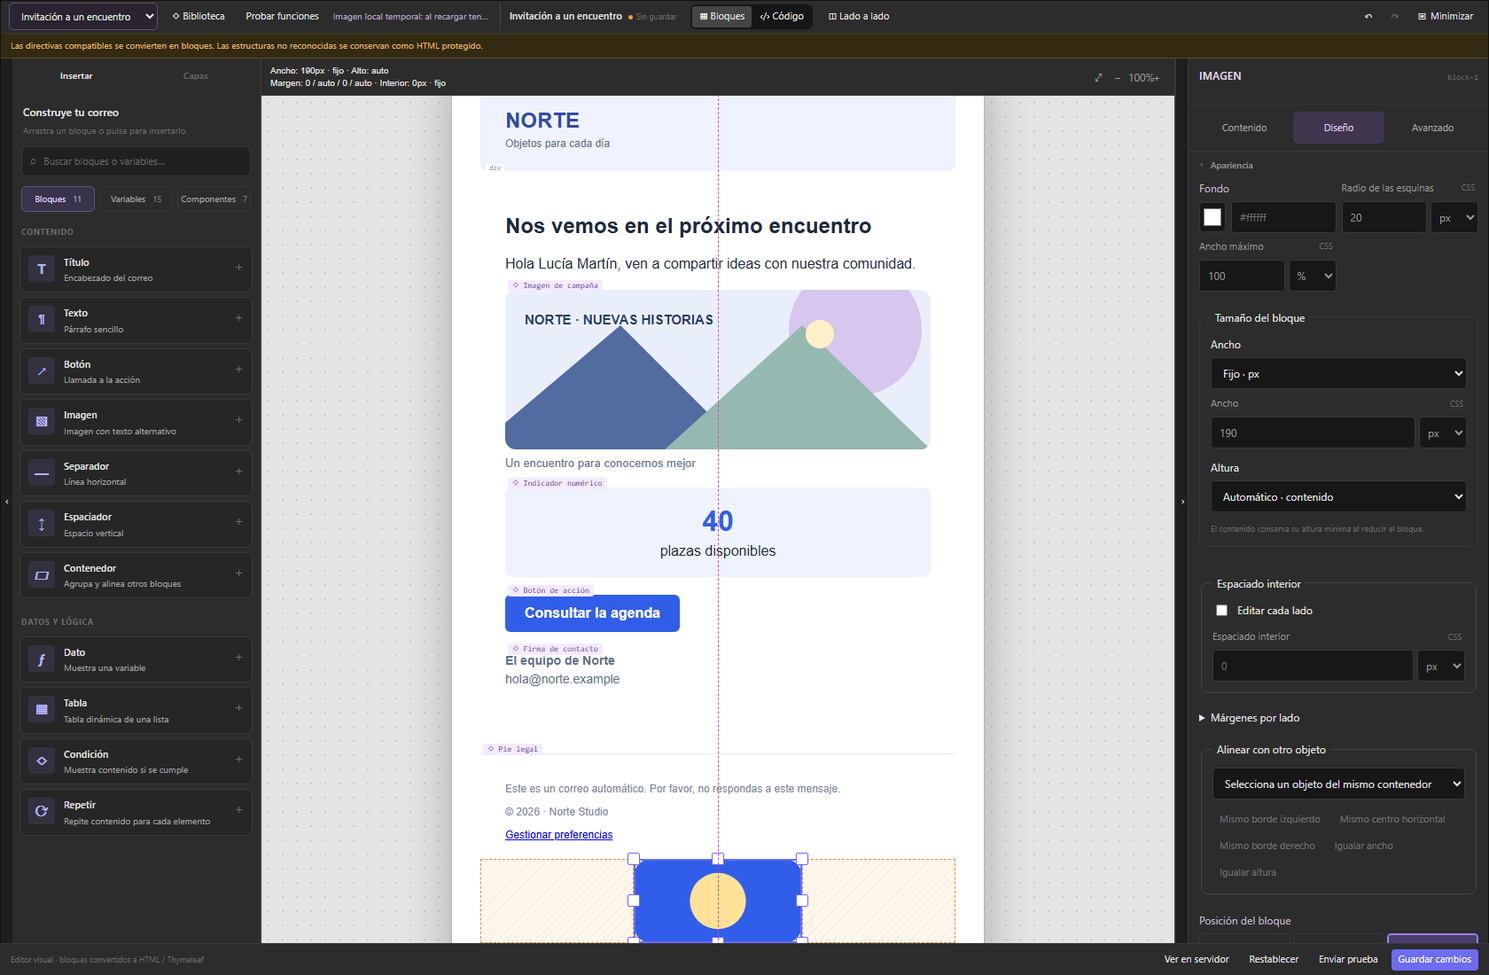
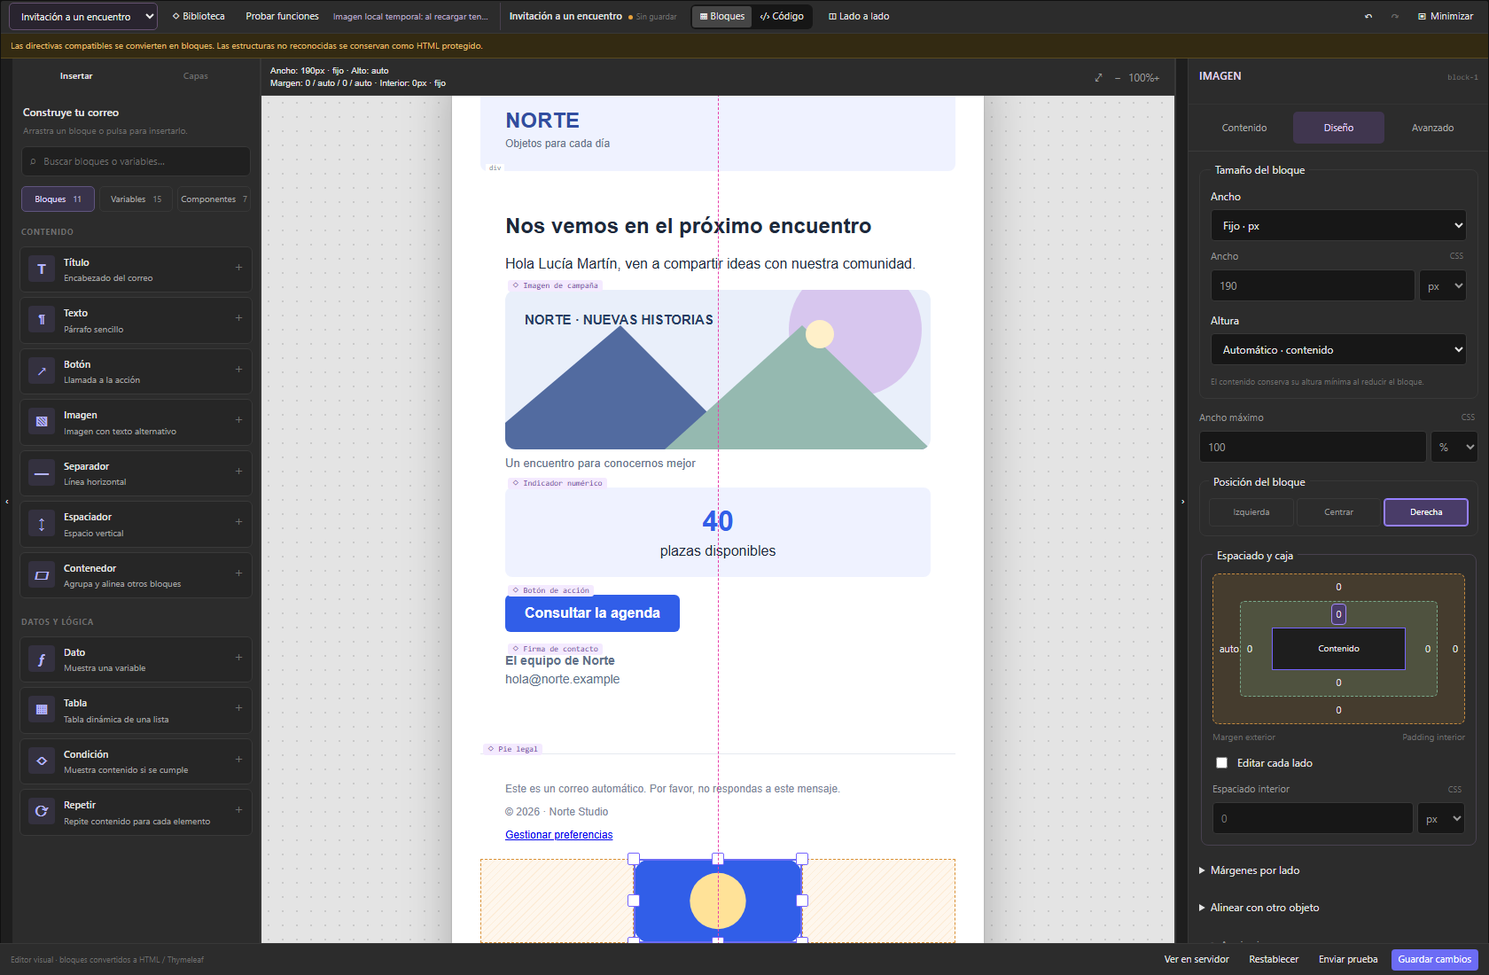
refactor(inspector): organize design around an editable box model

diff --git a/src/components/editor/SpacingInspector.tsx b/src/components/editor/SpacingInspector.tsx
@@ -1,67 +1,62 @@
-import { useEffect, useRef, useState } from "react";
+import { useEffect, useLayoutEffect, useRef, useState } from "react";
 import type { EmailBlock } from "../../services/emailBlocks";
+import { edges, readEdge, setSpacing, type Edge, type Spacing } from "../../editor/boxModel";
 import { LengthInput } from "./StyleInputs";
 
-export default function SpacingInspector({ block, onChange }: {
-  block: EmailBlock;
-  onChange: (styles: Record<string, string>) => void;
-}) {
-  const [separate, setSeparate] = useState(false);
-  const [reference, setReference] = useState("");
-  const [objects, setObjects] = useState<{id:string;label:string}[]>([]);
-  const [message, setMessage] = useState("");
-  const root = useRef<HTMLDivElement>(null);
-  const styles = block.styles || {};
-  const canvasNode = () => root.current?.closest('[role="region"]')?.querySelector<HTMLElement>(`[data-ee-block-id="${CSS.escape(block.id)}"]`);
-  useEffect(() => {
-    const selected = canvasNode();
-    setReference("");
-    setMessage("");
-    setObjects(Array.from(selected?.parentElement?.children || [])
-      .filter(element => element !== selected && element.hasAttribute("data-ee-block-id"))
-      .map(element => ({id:element.getAttribute("data-ee-block-id")!,label:element.textContent?.trim().slice(0,55) || element.getAttribute("data-ee-block-kind") || "Objeto"})));
-  }, [block.id]);
-  const applyReference = (action: "left"|"center"|"right"|"width"|"height") => {
-    const selected = canvasNode();
-    const parent = selected?.parentElement;
-    const target = Array.from(parent?.children || []).find(element=>element.getAttribute("data-ee-block-id")===reference) as HTMLElement | undefined;
-    if (!selected || !parent || !target) return;
-    const scale = selected.getBoundingClientRect().width / selected.offsetWidth || 1;
-    const box = selected.getBoundingClientRect();
-    const other = target.getBoundingClientRect();
-    if (action === "width" || action === "height") {
-      onChange({...styles,[action]:`${Math.round(other[action]/scale)}px`,boxSizing:"border-box"});
-    } else {
-      const parentBox = parent.getBoundingClientRect();
-      const padding = parseFloat(getComputedStyle(parent).paddingLeft) || 0;
-      const edge = action === "left" ? other.left : action === "right" ? other.right-box.width : (other.left+other.right-box.width)/2;
-      const left = Math.max(0,(edge-parentBox.left)/scale-parent.clientLeft-padding);
+type ReferenceAction = "left"|"center"|"right"|"width"|"height";
+export default function SpacingInspector({block,onChange}:{block:EmailBlock;onChange:(styles:Record<string,string>)=>void}) {
+  const root=useRef<HTMLDivElement>(null);
+  const [separate,setSeparate]=useState(false);
+  const [active,setActive]=useState<{kind:Spacing;side:Edge}>({kind:"padding",side:"Top"});
+  const [reference,setReference]=useState("");
+  const [objects,setObjects]=useState<{id:string;label:string}[]>([]);
+  const [message,setMessage]=useState("");
+  const styles=block.styles || {};
+  const node=()=>root.current?.closest('[role="region"]')?.querySelector<HTMLElement>(`[data-ee-block-id="${CSS.escape(block.id)}"]`);
+  useEffect(()=>{setReference("");setMessage("");},[block.id]);
+  useLayoutEffect(()=>{
+    const selected=node(),parent=selected?.parentElement;
+    const refresh=()=>setObjects(Array.from(parent?.children || []).filter(element=>element!==selected && element.hasAttribute("data-ee-block-id")).map(element=>({id:element.getAttribute("data-ee-block-id")!,label:element.textContent?.trim().slice(0,55)||element.getAttribute("data-ee-block-kind")||"Objeto"})));
+    refresh();
+    const observer=typeof MutationObserver === "undefined"?null:new MutationObserver(refresh);
+    if(parent)observer?.observe(parent,{childList:true});
+    return ()=>observer?.disconnect();
+  },[block.id]);
+  const applyReference=(action:ReferenceAction)=>{
+    const selected=node(),parent=selected?.parentElement;
+    const target=Array.from(parent?.children || []).find(element=>element.getAttribute("data-ee-block-id")===reference) as HTMLElement|undefined;
+    if(!selected || !parent || !target)return;
+    const box=selected.getBoundingClientRect(),other=target.getBoundingClientRect();
+    const scale=box.width/selected.offsetWidth || 1;
+    if(action === "width" || action === "height")onChange({...styles,[action]:`${Math.round(other[action]/scale)}px`,boxSizing:"border-box"});
+    else {
+      const padding=parseFloat(getComputedStyle(parent).paddingLeft)||0;
+      const edge=action === "left"?other.left:action === "right"?other.right-box.width:(other.left+other.right-box.width)/2;
+      const left=Math.max(0,(edge-parent.getBoundingClientRect().left)/scale-parent.clientLeft-padding);
       onChange({...styles,display:styles.display || "block",marginLeft:`${Math.round(left)}px`,marginRight:"0"});
     }
     setMessage("Medida aplicada en píxeles. Puedes deshacer el cambio.");
   };
-  const changePadding = (padding: string) => {
-    const next: Record<string,string> = {...styles,padding};
-    for (const side of ["Top","Right","Bottom","Left"]) delete next[`padding${side}`];
-    onChange(next);
-  };
-  const inheritedSide = (kind: "padding"|"margin", side: string) => {
-    if (styles[`${kind}${side}`]) return styles[`${kind}${side}`];
-    if (typeof document === "undefined") return "";
-    const declaration = document.createElement("div").style;
-    declaration.setProperty(kind, styles[kind] || "");
-    return declaration.getPropertyValue(`${kind}-${side.toLowerCase()}`);
-  };
+  const choose=(kind:Spacing,side:Edge)=>{setActive({kind,side});if(kind === "padding")setSeparate(true);};
   return <div ref={root} className="ee-spacing-inspector">
-    <fieldset><legend>Espaciado interior</legend>
-      <label className="ee-spacing-toggle"><input type="checkbox" checked={separate} onChange={event=>setSeparate(event.target.checked)} />Editar cada lado</label>
-      {separate ? <div className="ee-row2">{[["Top","Arriba"],["Right","Derecha"],["Bottom","Abajo"],["Left","Izquierda"]].map(([side,label])=><LengthInput key={side} label={`Padding ${label}`} value={inheritedSide("padding",side)} placeholder="0px" onChange={value=>onChange({...styles,[`padding${side}`]:value})} />)}</div> : <LengthInput label="Espaciado interior" value={styles.padding || ""} onChange={changePadding} placeholder="0px" />}
+    <fieldset><legend>Espaciado y caja</legend>
+      <div className="ee-box-map" aria-label="Diagrama de márgenes y padding">
+        {edges.map(([side,label])=><button key={`margin-${side}`} type="button" className={`ee-box-edge margin edge-${side.toLowerCase()}`} aria-label={`Editar margen ${label.toLowerCase()}`} aria-pressed={active.kind === "margin" && active.side === side} onClick={()=>choose("margin",side)}>{readEdge(styles,"margin",side)||"0"}</button>)}
+        <div className="ee-box-padding">
+          {edges.map(([side,label])=><button key={side} type="button" className={`ee-box-edge padding edge-${side.toLowerCase()}`} aria-label={`Editar padding ${label.toLowerCase()}`} aria-pressed={active.kind === "padding" && active.side === side} onClick={()=>choose("padding",side)}>{readEdge(styles,"padding",side)||"0"}</button>)}
+          <span className="ee-box-content">Contenido</span>
+        </div>
+      </div>
+      <div className="ee-box-legend"><span>Margen exterior</span><span>Padding interior</span></div>
+      <label className="ee-spacing-toggle"><input type="checkbox" checked={separate} onChange={event=>setSeparate(event.target.checked)}/>Editar cada lado</label>
+      {active.kind === "margin" && <LengthInput key={`margin-${active.side}`} label={`Margen ${edges.find(([side])=>side===active.side)![1]}`} value={readEdge(styles,"margin",active.side)} placeholder="0px" onChange={value=>onChange({...styles,[`margin${active.side}`]:value})}/>}
+      {separate?<div className="ee-row2">{edges.map(([side,label])=><LengthInput key={side} label={`Padding ${label}`} value={readEdge(styles,"padding",side)} placeholder="0px" onChange={value=>onChange({...styles,[`padding${side}`]:value})}/>)}</div>:<LengthInput label="Espaciado interior" value={styles.padding || ""} placeholder="0px" onChange={value=>onChange(setSpacing(styles,"padding",value))}/>}
     </fieldset>
-    <details><summary>Márgenes por lado</summary><div className="ee-row2">{[["Top","Arriba"],["Right","Derecha"],["Bottom","Abajo"],["Left","Izquierda"]].map(([side,label])=><LengthInput key={side} label={`Margen ${label}`} value={inheritedSide("margin",side)} onChange={value=>onChange({...styles,[`margin${side}`]:value})} placeholder="0px" />)}</div></details>
-    {objects.length>0 && <fieldset><legend>Alinear con otro objeto</legend>
-      <select className="ee-select" aria-label="Objeto de referencia" value={reference} onChange={event=>setReference(event.target.value)}><option value="">Selecciona un objeto del mismo contenedor</option>{objects.map(object=><option key={object.id} value={object.id}>{object.label}</option>)}</select>
+    <details><summary>Márgenes por lado</summary><div className="ee-row2">{edges.map(([side,label])=><LengthInput key={side} label={`Margen ${label}`} value={readEdge(styles,"margin",side)} placeholder="0px" onChange={value=>onChange({...styles,[`margin${side}`]:value})}/>)}</div></details>
+    {objects.length>0 && <details className="ee-reference-panel"><summary>Alinear con otro objeto</summary>
+      <select className="ee-select" aria-label="Objeto de referencia" value={reference} onChange={event=>setReference(event.target.value)}><option value="">Objeto del mismo contenedor</option>{objects.map(object=><option key={object.id} value={object.id}>{object.label}</option>)}</select>
       <div className="ee-reference-actions">{([["left","Mismo borde izquierdo"],["center","Mismo centro horizontal"],["right","Mismo borde derecho"],["width","Igualar ancho"],["height","Igualar altura"]] as const).map(([action,label])=><button className="ee-btn" type="button" key={action} disabled={!reference} onClick={()=>applyReference(action)}>{label}</button>)}</div>
       {message && <small role="status">{message}</small>}
-    </fieldset>}
+    </details>}
   </div>;
 }

diff --git a/src/components/editor/BlockInspector.tsx b/src/components/editor/BlockInspector.tsx
@@ -1,20 +1,17 @@
-import FrameSizing from "./FrameSizing";
-import SpacingInspector from "./SpacingInspector";
+import DesignInspector from "./DesignInspector";
 import ImageInspector from "./ImageInspector";
 import ValueInput from "./ValueInput";
 import { singleVariable } from "../../services/valueSyntax";
 import { useMemo, useRef, useState } from "react";
 import type React from "react";
-import { positionAlignedBlockTypes, positionAlignStyles, type EmailBlock } from "../../services/emailBlocks";
+import { type EmailBlock } from "../../services/emailBlocks";
 import { inlineTextOf, markerFor, parseInlineText, removeInlineRange, insertInlineVariable } from "../../services/inlineTextModel";
 import type { EmailToken } from "../../services/emailTemplateRenderer";
 import InlineSyntaxEditor from "./InlineSyntaxEditor";
 import TableInspector from "./TableInspector";
-import FlexLayoutInspector from "./FlexLayoutInspector";
 import { getSampleObjectPaths } from "../../services/emailBlockActions";
 import type { EmailComponent } from "../../services/emailComponents";
 import ComponentInspector from "./ComponentInspector";
-import { ColorInput, LengthInput } from "./StyleInputs";
 
 type Props = {
   onUploadImage?: (file: File) => Promise<string>;
@@ -75,7 +72,6 @@ export default function BlockInspector({ style, block, multiCount, tokens, loopC
     <div className="ee-inspector-empty"><span>◈</span><strong>Selecciona un bloque</strong><p>Elige una pieza del lienzo o de las capas para editar su contenido y apariencia.</p></div>
   </aside>;
 
-  const isPositionAligned = (positionAlignedBlockTypes as readonly string[]).includes(block.type);
 
   return <aside className="ee-inspector" style={style} aria-label="Inspector de propiedades">
     <div className="ee-inspector-top"><span className="ee-eyebrow">{typeTitle[block.type].toUpperCase()}</span><small>{block.id}</small></div>
@@ -130,53 +126,7 @@ export default function BlockInspector({ style, block, multiCount, tokens, loopC
       </details>
 
       {block.type === "table" && tab !== "advanced" && <TableInspector key={block.id} block={block} onPatch={patch} tokens={tokens} mode={tab === "design" ? "design" : "content"} selectedField={selectedTableField} /> }
-      {(block.type === "container" || block.type === "loop") && tab === "design" && <FlexLayoutInspector styles={block.styles ?? {}} onChange={styles => onPatch(block.id, { styles })} />}
-
-      <details className="ee-inspector-section" open hidden={tab !== "design"}>
-        <summary>Apariencia</summary>
-        <div className="ee-inspector-section-body">
-
-          <div className="ee-row2">
-            {block.type !== "image" && <div className="ee-field"><span>Texto</span><ColorInput label="Color del texto" value={block.styles?.color ?? ""} onChange={color => patch({ styles: { ...block.styles, color } })} placeholder="#172033" /></div>}
-            <div className="ee-field"><span>Fondo</span><ColorInput label="Color del fondo" value={block.styles?.backgroundColor ?? ""} onChange={backgroundColor => patch({ styles: { ...block.styles, backgroundColor } })} /></div>
-            {block.type !== "image" && <LengthInput label="Tamaño del texto" value={block.styles?.fontSize ?? ""} onChange={fontSize => patch({ styles: { ...block.styles, fontSize } })} placeholder="16px" />}
-
-            <LengthInput label="Radio de las esquinas" value={block.styles?.borderRadius ?? ""} onChange={borderRadius => patch({ styles: { ...block.styles, borderRadius } })} placeholder="8px" />
-
-            <LengthInput label="Ancho máximo" value={block.styles?.maxWidth ?? ""} onChange={maxWidth => patch({ styles: { ...block.styles, maxWidth } })} placeholder="600px" />
-          </div>
-          <FrameSizing key={`size-${block.id}`} styles={block.type === "image" && block.width ? {width:`${block.width}px`,...block.styles} : block.styles || {}} onChange={styles=>patch(block.type === "image" ? {styles,width:styles.width ? block.width : ""} : {styles})} />
-          <SpacingInspector key={block.id} block={block} onChange={styles=>patch({styles})} />
-          <div className="ee-field"><span>{isPositionAligned ? "Posición del bloque" : "Alineación del texto"}</span>
-            <div className="ee-alignment-control" role="group" aria-label={isPositionAligned ? "Posición del bloque" : "Alineación del texto"}>
-              {([["left", "⇤", "Izquierda"], ["center", "↔", "Centrar"], ["right", "⇥", "Derecha"]] as const).map(([value, icon, name]) => {
-                const current = isPositionAligned
-                  ? (block.styles?.marginLeft === "auto" ? (block.styles?.marginRight === "auto" ? "center" : "right") : "left")
-                  : block.styles?.textAlign;
-                return <button key={value} className={current === value ? "selected" : ""} aria-label={name} aria-pressed={current === value}
-                  type="button" title={name} onClick={() => onPatch(block.id, { styles: isPositionAligned
-                    ? { ...block.styles, ...positionAlignStyles(value, block.type, block.styles?.display) }
-                    : { ...block.styles, textAlign: value } })}><span aria-hidden="true">{icon}</span><span>{name}</span></button>;
-              })}
-            </div>
-          </div>
-
-          {!isPositionAligned && <div className="ee-field"><span>Posición del bloque</span>
-            <div className="ee-alignment-control" role="group" aria-label="Posición del bloque">
-              {([["left","Bloque a la izquierda"],["center","Bloque al centro"],["right","Bloque a la derecha"]] as const).map(([value,label])=>{
-                const current=block.styles?.marginLeft === "auto" ? block.styles?.marginRight === "auto" ? "center" : "right" : "left";
-                return <button type="button" key={value} aria-label={label} aria-pressed={current === value} onClick={()=>patch({styles:{...block.styles,...positionAlignStyles(value,block.type,block.styles?.display)}})}>{label}</button>;
-              })}
-            </div>
-          </div>}
-          {(["component","container","rich","paragraph","heading"].includes(block.type)) && <div className="ee-field"><span>Alineación vertical del contenido</span>
-            <div className="ee-alignment-control" role="group" aria-label="Alineación vertical del contenido">
-              {([["flex-start","Arriba"],["center","Centro vertical"],["flex-end","Abajo"]] as const).map(([value,label]) => <button type="button" key={value} aria-label={label} aria-pressed={(block.styles?.justifyContent || block.styles?.alignContent || "flex-start") === value} onClick={()=>patch({styles:{...block.styles,...(block.type === "component" || block.type === "container" ? {display:"flex",flexDirection:"column",justifyContent:value} : {alignContent:value})}})}>{label}</button>)}
-            </div><small>Aumenta la altura del bloque para dejar espacio sobre o bajo su contenido.</small>
-          </div>}
-
-        </div>
-      </details>
+      {tab === "design" && <DesignInspector key={block.id} block={block} onPatch={patch}/>}
 
       <details className="ee-inspector-section" hidden={tab !== "advanced"}>
         <summary>Atributos HTML</summary>

diff --git a/src/components/editor/DesignInspector.tsx b/src/components/editor/DesignInspector.tsx
@@ -1,0 +1,36 @@
+import { positionAlignedBlockTypes, positionAlignStyles, type EmailBlock } from "../../services/emailBlocks";
+import FrameSizing from "./FrameSizing";
+import SpacingInspector from "./SpacingInspector";
+import FlexLayoutInspector from "./FlexLayoutInspector";
+import { ColorInput,LengthInput } from "./StyleInputs";
+
+type Props={block:EmailBlock;onPatch:(patch:Partial<EmailBlock>)=>void};
+export default function DesignInspector({block,onPatch}:Props) {
+  const styles=block.styles || {};
+  const change=(styles:Record<string,string>)=>onPatch({styles});
+  const positional=(positionAlignedBlockTypes as readonly string[]).includes(block.type);
+  const position=styles.marginLeft === "auto"?styles.marginRight === "auto"?"center":"right":"left";
+  const align=(value:"left"|"center"|"right")=>change({...styles,...positionAlignStyles(value,block.type,styles.display)});
+  const sizing=block.type === "image" && block.width?{width:`${block.width}px`,...styles}:styles;
+  return <div className="ee-design-inspector">
+    <FrameSizing styles={sizing} onChange={next=>onPatch(block.type === "image"?{styles:next,width:next.width?.endsWith("px")?next.width.slice(0,-2):next.width?block.width:""}:{styles:next})}/>
+    <LengthInput label="Ancho máximo" value={styles.maxWidth || ""} onChange={maxWidth=>change({...styles,maxWidth})} placeholder="600px"/>
+    <fieldset className="ee-design-group"><legend>Posición del bloque</legend>
+      <div className="ee-alignment-control" role="group" aria-label="Posición del bloque">
+        {([["left","Izquierda","Bloque a la izquierda"],["center","Centrar","Bloque al centro"],["right","Derecha","Bloque a la derecha"]] as const).map(([value,label,boxLabel])=><button type="button" key={value} aria-label={positional?label:boxLabel} aria-pressed={position===value} onClick={()=>align(value)}>{positional?label:boxLabel}</button>)}
+      </div>
+    </fieldset>
+    {block.type !== "image" && <fieldset className="ee-design-group"><legend>Contenido</legend>
+      {!positional && <div className="ee-alignment-control" role="group" aria-label="Alineación del texto">{([["left","Izquierda"],["center","Centrar"],["right","Derecha"]] as const).map(([value,label])=><button type="button" key={value} aria-label={label} aria-pressed={styles.textAlign===value} onClick={()=>change({...styles,textAlign:value})}>{label}</button>)}</div>}
+      {(["component","container","if","rich","paragraph","heading"].includes(block.type)) && <div className="ee-alignment-control" role="group" aria-label="Alineación vertical del contenido">{([["flex-start","Arriba"],["center","Centro vertical"],["flex-end","Abajo"]] as const).map(([value,label])=><button type="button" key={value} aria-label={label} aria-pressed={(styles.justifyContent||styles.alignContent||"flex-start")===value} onClick={()=>change({...styles,...(["component","container","if"].includes(block.type)?{display:"flex",flexDirection:"column",justifyContent:value}:{alignContent:value})})}>{label}</button>)}</div>}
+    </fieldset>}
+    <SpacingInspector block={block} onChange={change}/>
+    {(block.type === "container" || block.type === "loop") && <FlexLayoutInspector styles={styles} onChange={change}/>}
+    <details className="ee-inspector-section" open><summary>Apariencia</summary><div className="ee-inspector-section-body"><div className="ee-row2">
+      {block.type !== "image" && <ColorInput label="Color del texto" value={styles.color || ""} onChange={color=>change({...styles,color})} placeholder="#172033"/>}
+      <ColorInput label="Color del fondo" value={styles.backgroundColor || ""} onChange={backgroundColor=>change({...styles,backgroundColor})}/>
+      {block.type !== "image" && <LengthInput label="Tamaño del texto" value={styles.fontSize || ""} onChange={fontSize=>change({...styles,fontSize})} placeholder="16px"/>}
+      <LengthInput label="Radio de las esquinas" value={styles.borderRadius || ""} onChange={borderRadius=>change({...styles,borderRadius})} placeholder="8px"/>
+    </div></div></details>
+  </div>;
+}

diff --git a/src/components/email-editor/email-editor.css b/src/components/email-editor/email-editor.css
@@ -584,3 +584,17 @@
 .ee-transform-controls[data-gesture="aligning"] .ee-transform-drag-surface { cursor:grabbing; }
 .ee-transform-controls[data-gesture="resizing"] { outline:1px solid #a892ff; }
 .ee-transform-controls[data-gesture="pressed"] .ee-transform-drag-surface { cursor:grabbing; }
+.ee-design-inspector { padding:0 12px 18px; }
+.ee-design-group { border:1px solid var(--panel-border,#48414f); border-radius:8px; margin:12px 0; padding:10px; min-width:0; }
+.ee-design-group legend { font-size:12px; padding:0 5px; }
+.ee-design-group .ee-alignment-control+.ee-alignment-control { margin-top:8px; }
+.ee-box-map { position:relative; height:170px; background:#e9a33b22; border:1px dashed #c68a3f; border-radius:7px; }
+.ee-box-padding { position:absolute; inset:30px; background:#8dce9f26; border:1px dashed #78a98b; border-radius:5px; }
+.ee-box-edge { position:absolute; border:0; background:transparent; color:var(--text,#eee); font-size:11px; padding:3px 5px; border-radius:3px; max-width:65px; overflow:hidden; text-overflow:ellipsis; }
+.ee-box-edge[aria-pressed="true"] { outline:1px solid #a38aff; background:#493c68; }
+.ee-box-edge.edge-top { top:3px; left:50%; transform:translateX(-50%); }
+.ee-box-edge.edge-bottom { bottom:3px; left:50%; transform:translateX(-50%); }
+.ee-box-edge.edge-left { left:2px; top:50%; transform:translateY(-50%); }
+.ee-box-edge.edge-right { right:2px; top:50%; transform:translateY(-50%); }
+.ee-box-content { position:absolute; inset:29px 35px; display:grid; place-items:center; background:var(--panel,#242228); border:1px solid #7564ff; font-size:10px; }
+.ee-box-legend { display:flex; justify-content:space-between; font-size:10px; color:var(--text-faint); margin:7px 0 12px; }

diff --git a/src/editor/boxModel.ts b/src/editor/boxModel.ts
@@ -1,0 +1,15 @@
+export const edges = [["Top","Arriba"],["Right","Derecha"],["Bottom","Abajo"],["Left","Izquierda"]] as const;
+export type Edge = typeof edges[number][0];
+export type Spacing = "padding"|"margin";
+export function readEdge(styles:Record<string,string>,kind:Spacing,side:Edge):string {
+  if (styles[`${kind}${side}`] !== undefined) return styles[`${kind}${side}`];
+  if (typeof document === "undefined") return styles[kind] || "";
+  const declaration=document.createElement("div").style;
+  declaration.setProperty(kind,styles[kind] || "");
+  return declaration.getPropertyValue(`${kind}-${side.toLowerCase()}`);
+}
+export function setSpacing(styles:Record<string,string>,kind:Spacing,value:string):Record<string,string> {
+  const next={...styles,[kind]:value};
+  for(const [side] of edges)delete next[`${kind}${side}`];
+  return next;
+}

diff --git a/src/editor/boxModel.test.ts b/src/editor/boxModel.test.ts
@@ -1,0 +1,10 @@
+import {it,expect} from "vitest";
+import {readEdge,setSpacing} from "./boxModel";
+it("resolves shorthand sides and replaces them atomically when linking padding",()=>{
+ const styles={padding:"10px 20px",paddingTop:"0px",margin:"auto"};
+ expect(readEdge(styles,"padding","Top")).toBe("0px");
+ expect(readEdge(styles,"padding","Right")).toBe("20px");
+ const linked=setSpacing(styles,"padding","2rem");
+ expect(linked.paddingTop).toBeUndefined();expect(linked.padding).toBe("2rem");
+ expect(linked.margin).toBe("auto");
+});
